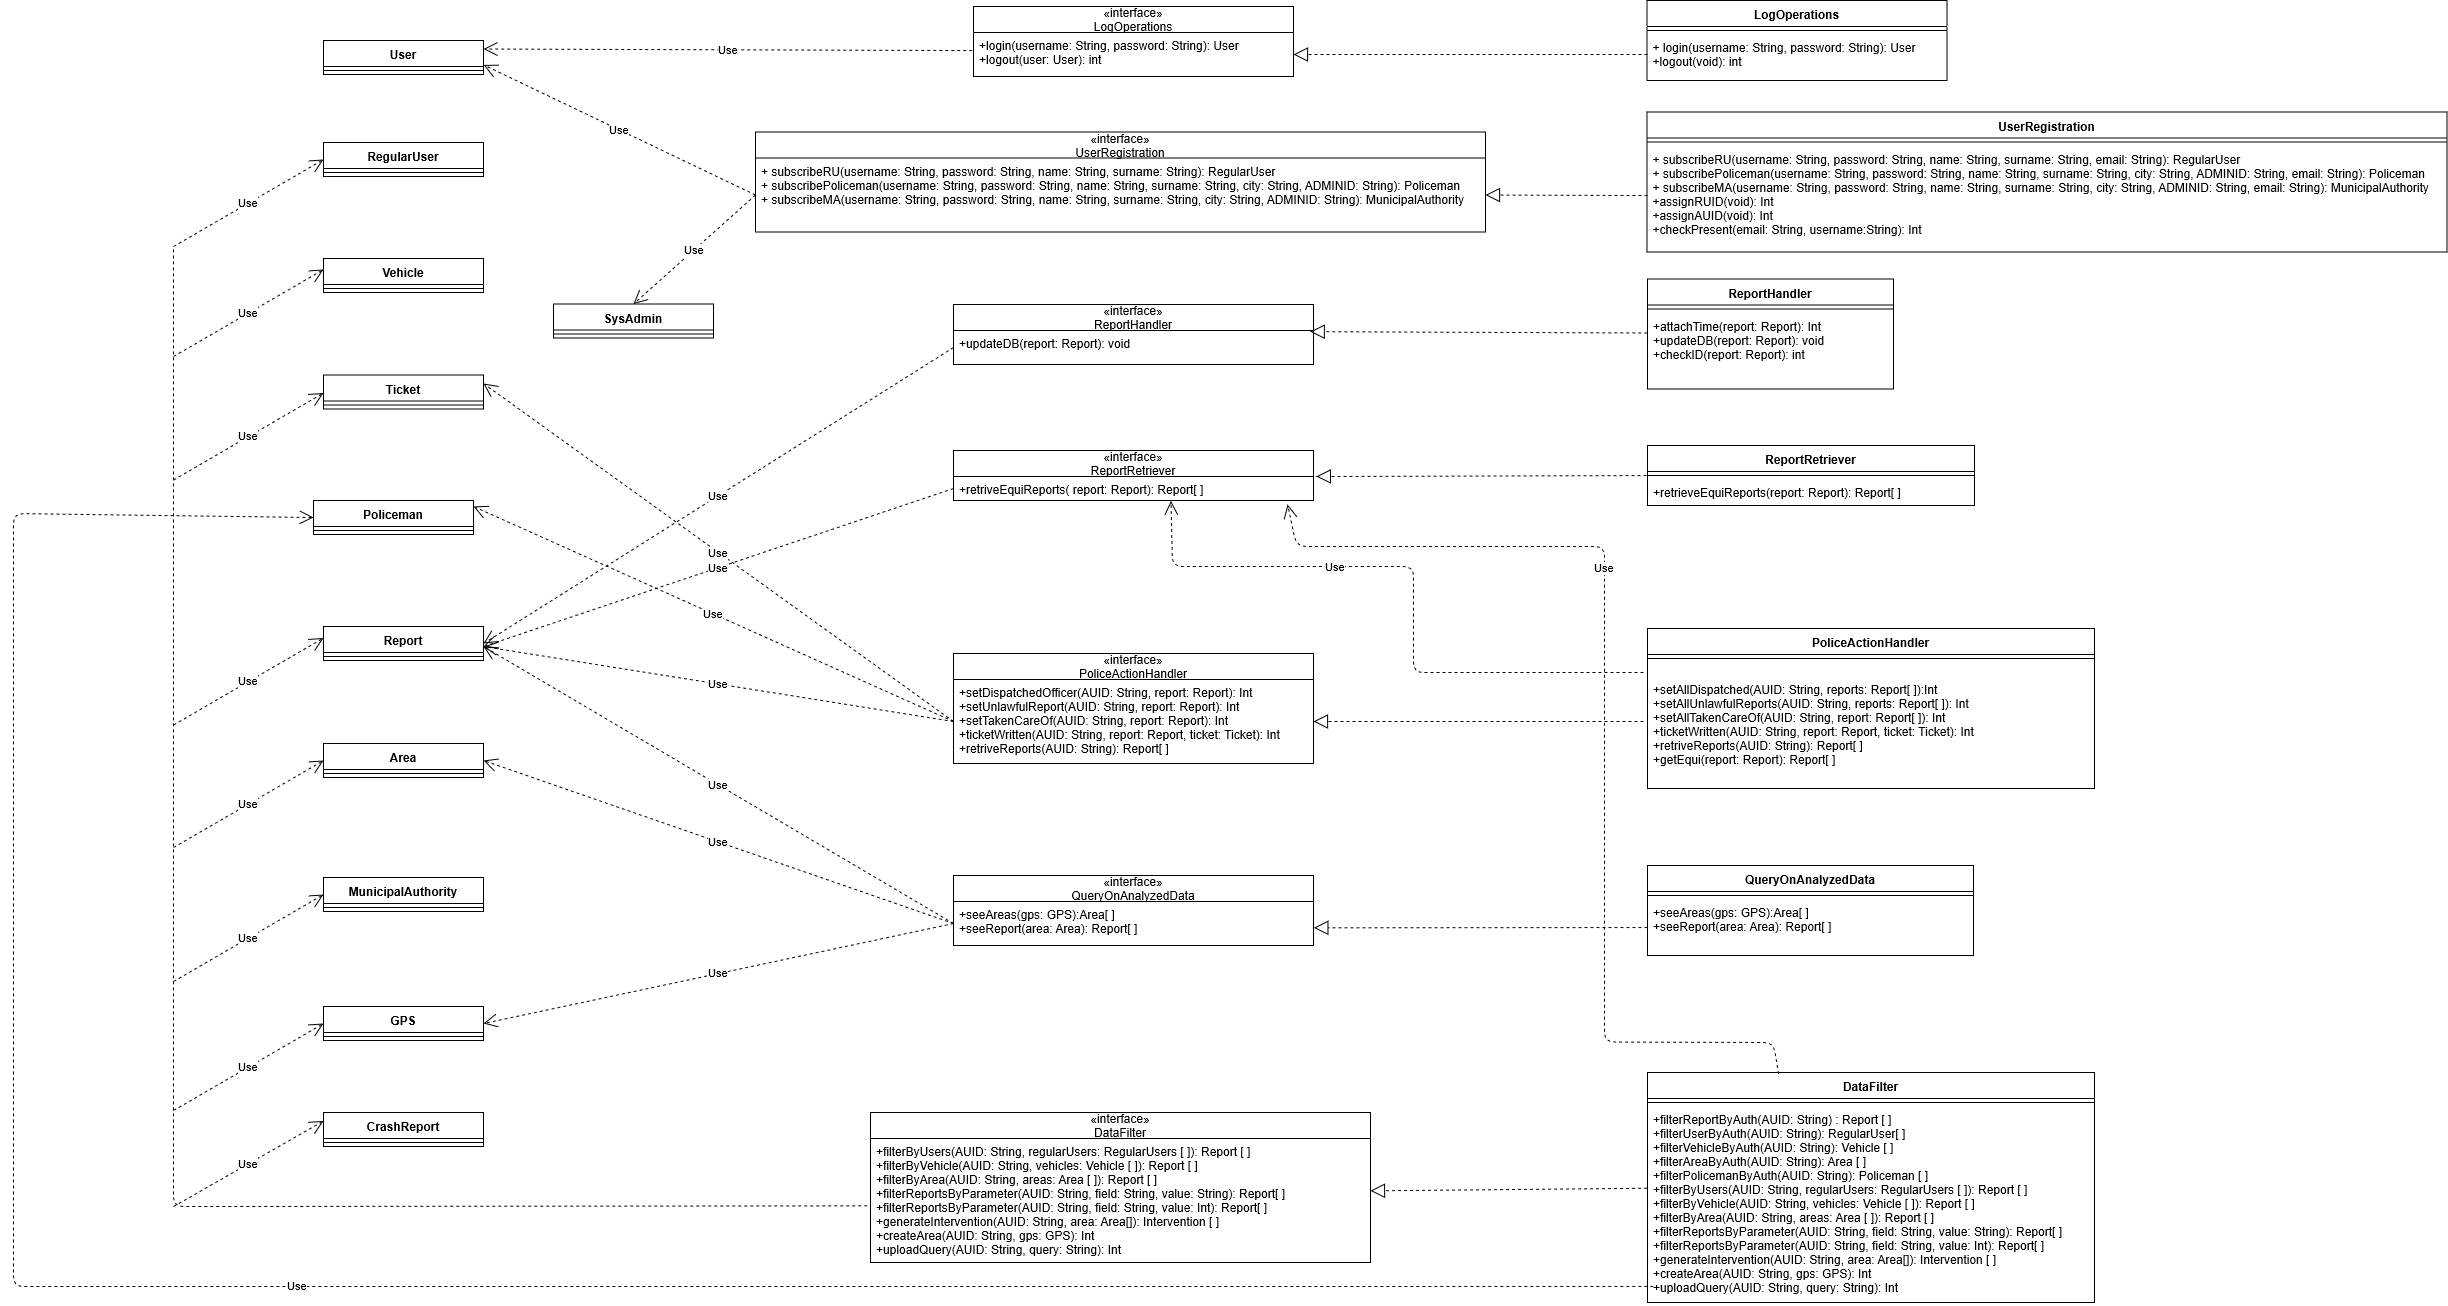
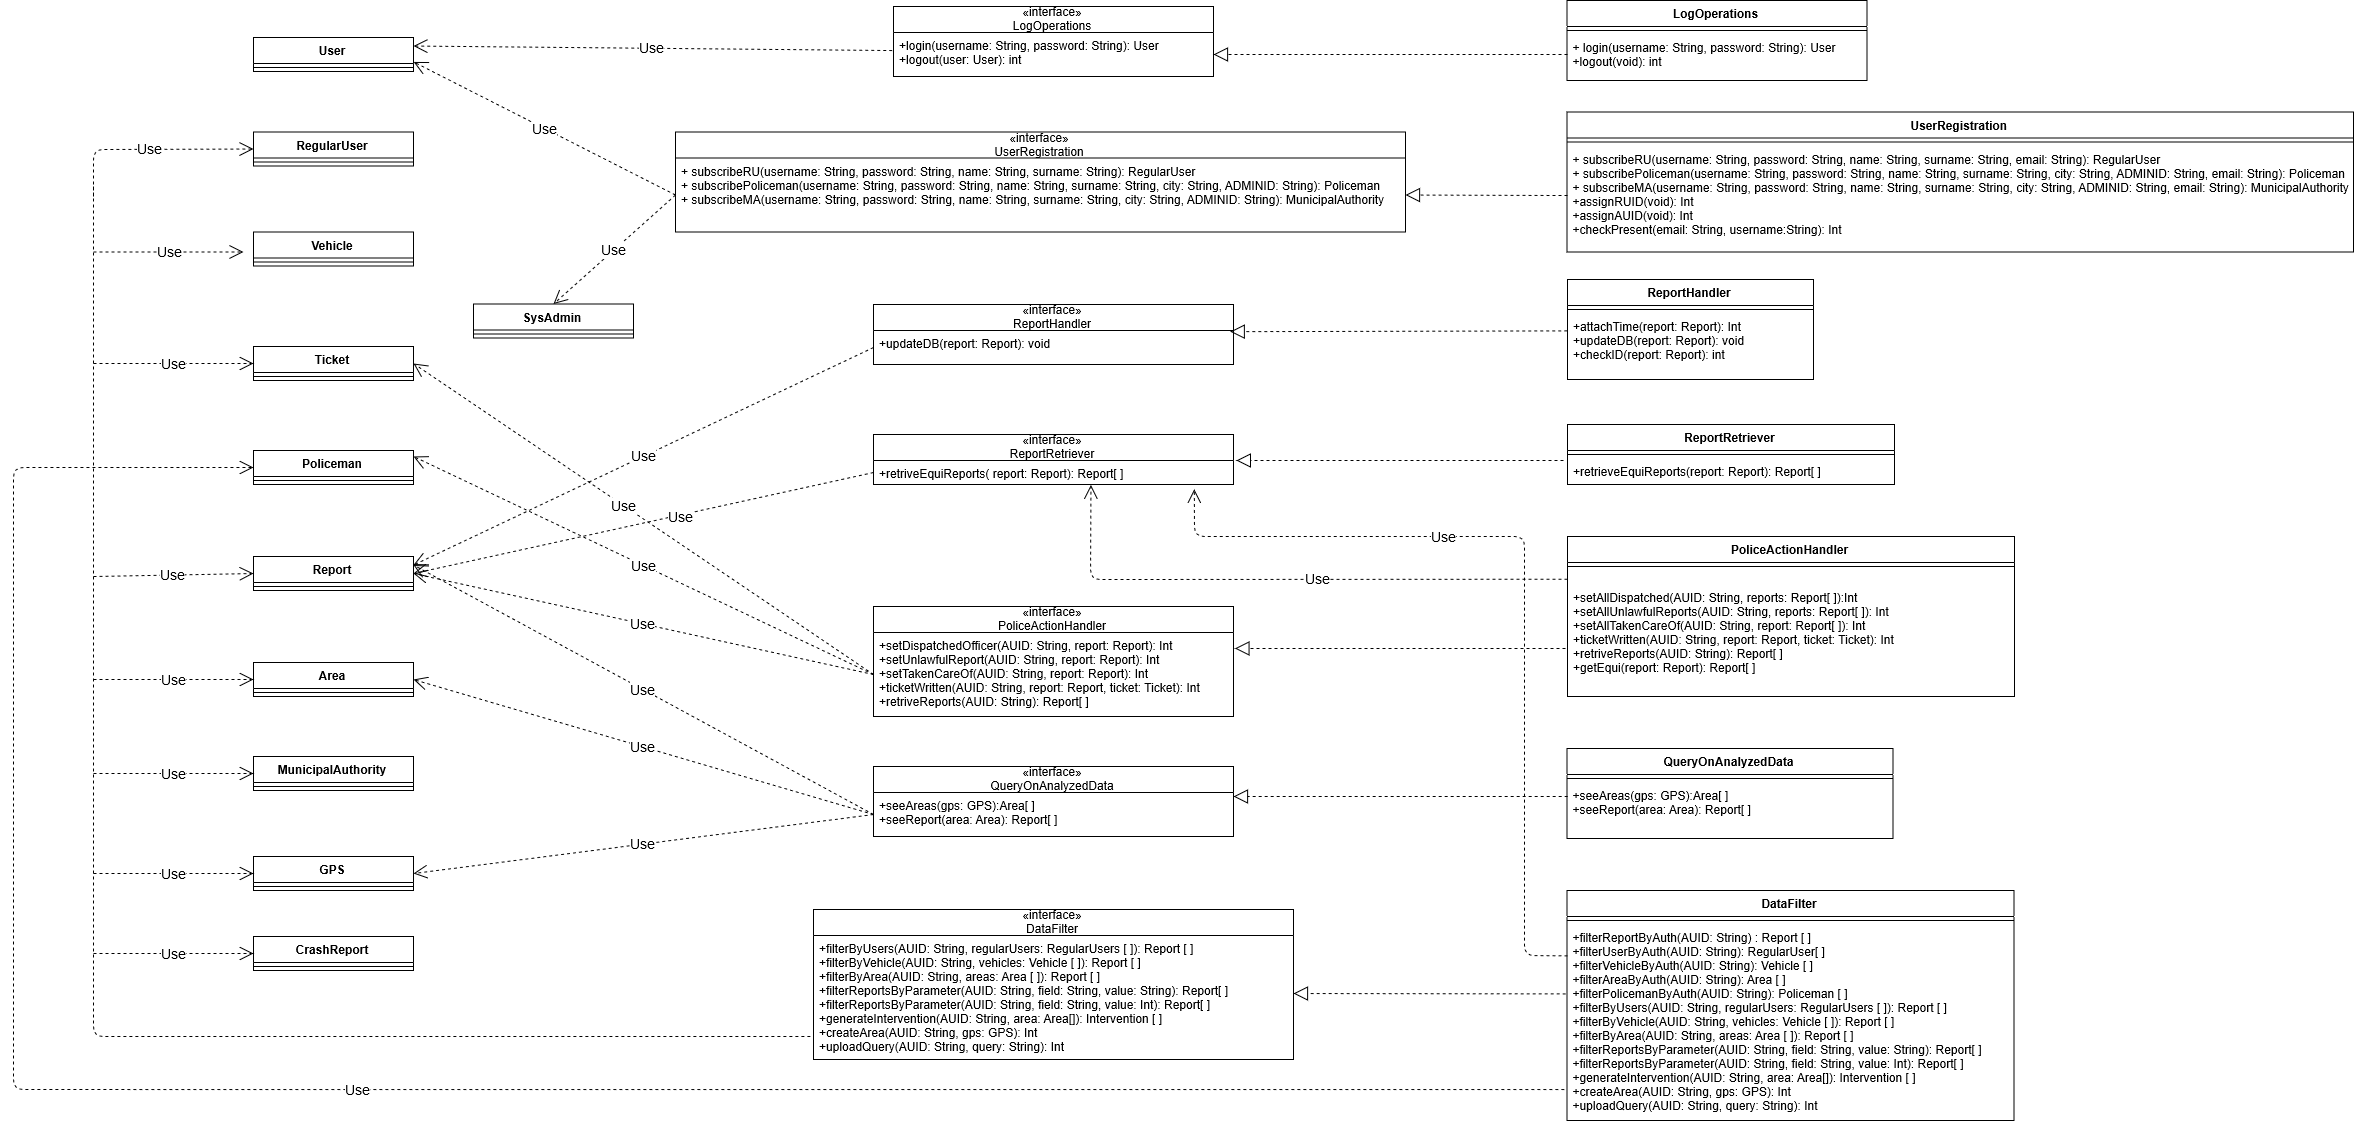
DD - Update
Improvements to readability (some diagram sizes increased)

diff --git a/DD/Files/architectural.tex b/DD/Files/architectural.tex
@@ -44,14 +44,14 @@ Please note also that, in the second diagram, the Router component isn't shown. 
 
 \begin{figure}[H]
 	\centering
-	\includegraphics[angle=90, scale=0.30]{Images/ADV_class_diagram}
+	\includegraphics[angle=90, scale=0.34]{Images/ADV_class_diagram}
 	\caption{Class diagram}
 \end{figure}
 \newpage
 
 \begin{figure}[H]
 	\centering
-	\includegraphics[angle=90, scale=0.25]{Images/component_class_relation}
+	\includegraphics[angle=90, scale=0.29]{Images/component_class_relation}
 	\caption{Relation between components and already specified classes}
 \end{figure}
 \newpage
